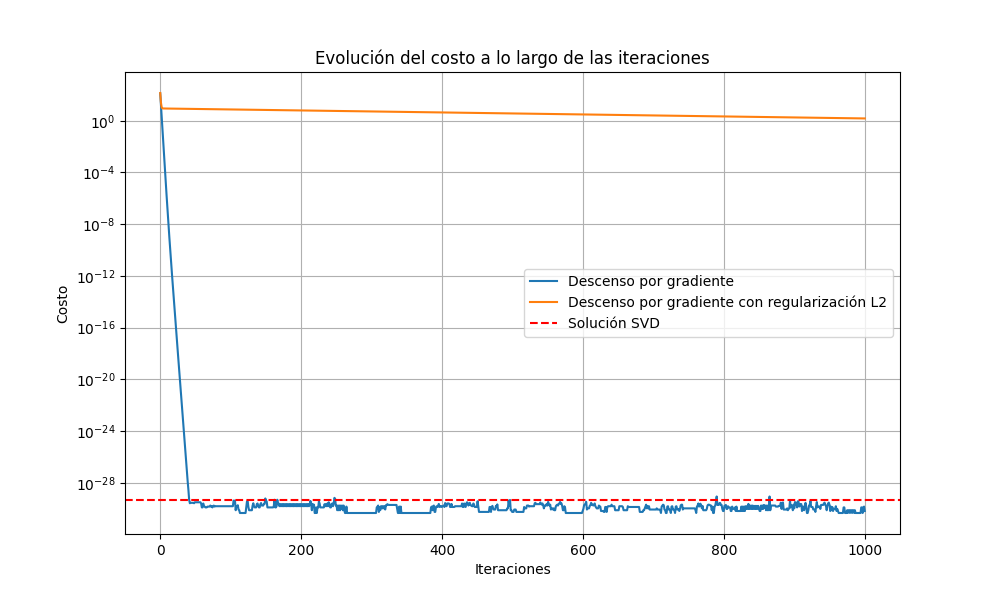
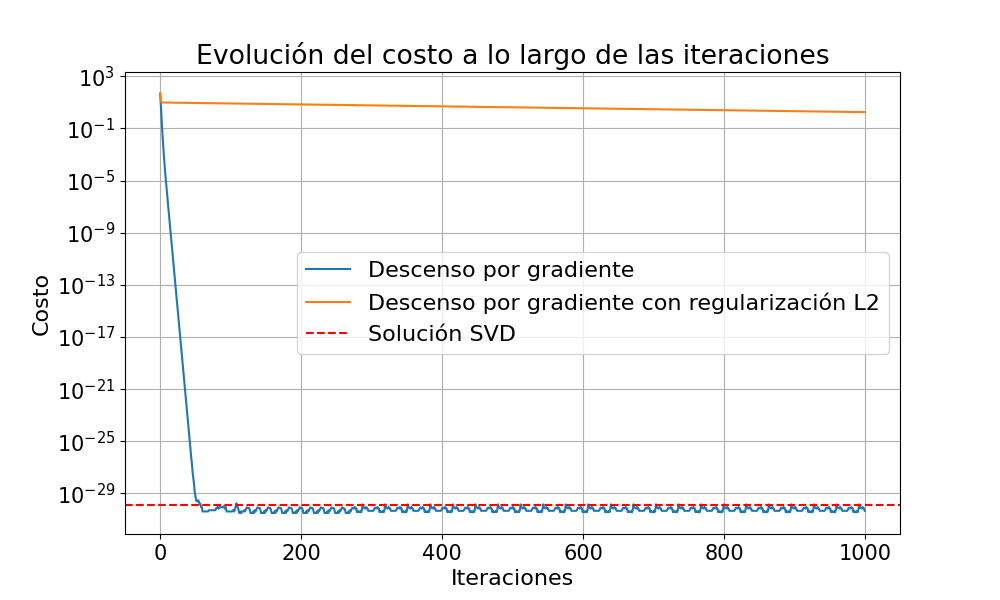
AL INFORME HAY Q ACTUALIZAR GRAFICOS

diff --git a/main.py b/main.py
@@ -18,23 +18,23 @@ def main():
 
     F, grad_F, F2, grad_F2, s, delta2, cost_svd, norm_svd, deltas2 = initialize_problem(A)
 
-    plot_convergence_cost(x0, grad_F, F, s, iterations, delta2, F2, grad_F2, cost_svd)
-    plot_convergence_norm(x0, grad_F, s, iterations, delta2, grad_F2, norm_svd)
-    plot_convergence_x(x0, grad_F, s, iterations, delta2, grad_F2)
-    plot_cost_with_different_delta2(x0, grad_F2, F2, s, iterations, deltas2)
+    # plot_convergence_cost(x0, grad_F, F, s, iterations, delta2, F2, grad_F2, cost_svd)
+    # plot_convergence_norm(x0, grad_F, s, iterations, delta2, grad_F2, norm_svd)
+    # plot_convergence_x(x0, grad_F, s, iterations, delta2, grad_F2)
+    # plot_cost_with_different_delta2(x0, grad_F2, F2, s, iterations, deltas2)
 
     I = np.eye(n)
     zeros = np.zeros((n, d - n))
     A = np.hstack((I, zeros))
     
-    print(f"Condición de A: {condition_number(A)}")
+    # print(f"Condición de A: {condition_number(A)}")
 
     F, grad_F, F2, grad_F2, s, delta2, cost_svd, norm_svd, deltas2 = initialize_problem(A)
 
     plot_convergence_cost(x0, grad_F, F, s, iterations, delta2, F2, grad_F2, cost_svd)
-    plot_convergence_norm(x0, grad_F, s, iterations, delta2, grad_F2, norm_svd)
-    plot_convergence_x(x0, grad_F, s, iterations, delta2, grad_F2)
-    plot_cost_with_different_delta2(x0, grad_F2, F2, s, iterations, deltas2)
+    # plot_convergence_norm(x0, grad_F, s, iterations, delta2, grad_F2, norm_svd)
+    # plot_convergence_x(x0, grad_F, s, iterations, delta2, grad_F2)
+    # plot_cost_with_different_delta2(x0, grad_F2, F2, s, iterations, deltas2)
    
     A = np.random.randn(n, d)
     print(f"Condición de A: {condition_number(A)}")
@@ -42,9 +42,9 @@ def main():
     F, grad_F, F2, grad_F2, s, delta2, cost_svd, norm_svd, deltas2 = initialize_problem(A)
 
     plot_convergence_cost(x0, grad_F, F, s, iterations, delta2, F2, grad_F2, cost_svd)
-    plot_convergence_norm(x0, grad_F, s, iterations, delta2, grad_F2, norm_svd)
-    plot_convergence_x(x0, grad_F, s, iterations, delta2, grad_F2)
-    plot_cost_with_different_delta2(x0, grad_F2, F2, s, iterations, deltas2)
+    # plot_convergence_norm(x0, grad_F, s, iterations, delta2, grad_F2, norm_svd)
+    # plot_convergence_x(x0, grad_F, s, iterations, delta2, grad_F2)
+    # plot_cost_with_different_delta2(x0, grad_F2, F2, s, iterations, deltas2)
 
 def initialize_problem(A):
     def F(x): return np.dot((A @ x - b).T, A @ x - b)
@@ -95,6 +95,11 @@ def plot_convergence_cost(x0, grad_F, F, s, iterations, delta2, F2, grad_F2, cos
         cost_history_F2.append(F2(x_reg, delta2))
 
     plt.figure(figsize=(10, 6))
+
+    # cmap = plt.cm.get_cmap('viridis')
+    # plt.plot(cost_history_F, label='Descenso por gradiente', color=cmap(0.2))
+    # plt.plot(cost_history_F2, label='Descenso por gradiente con regularización L2', color=cmap(0.8))
+
     plt.plot(cost_history_F, label='Descenso por gradiente')
     plt.plot(cost_history_F2, label='Descenso por gradiente con regularización L2')
     plt.axhline(y=cost_svd, color='r', linestyle='--', label='Solución SVD')
@@ -189,12 +194,15 @@ def plot_cost_with_different_delta2(x0, grad_F2, F2, s, iterations, range_delta2
     plt.figure(figsize=(10, 6))
     plt.xscale("log")
     plt.yscale("log")
-    plt.bar(range_delta2, costs)
-    plt.xlabel('Valor de delta^2')
+    plt.bar(range_delta2, costs, width=range_delta2, color='skyblue', align='center')
+    plt.xlabel('Valor de $\delta^2$')
     plt.ylabel('Costo')
-    plt.title('Costo en función del valor de delta^2')
+    plt.title('Costo en función del valor de $\delta^2$')
     plt.grid(True)
     plt.show()
 
 if __name__ == '__main__':
+    plt.rcParams.update({'font.size': 16})
+    plt.rcParams.update({"xtick.labelsize":15,"ytick.labelsize":15})
+
     main()
